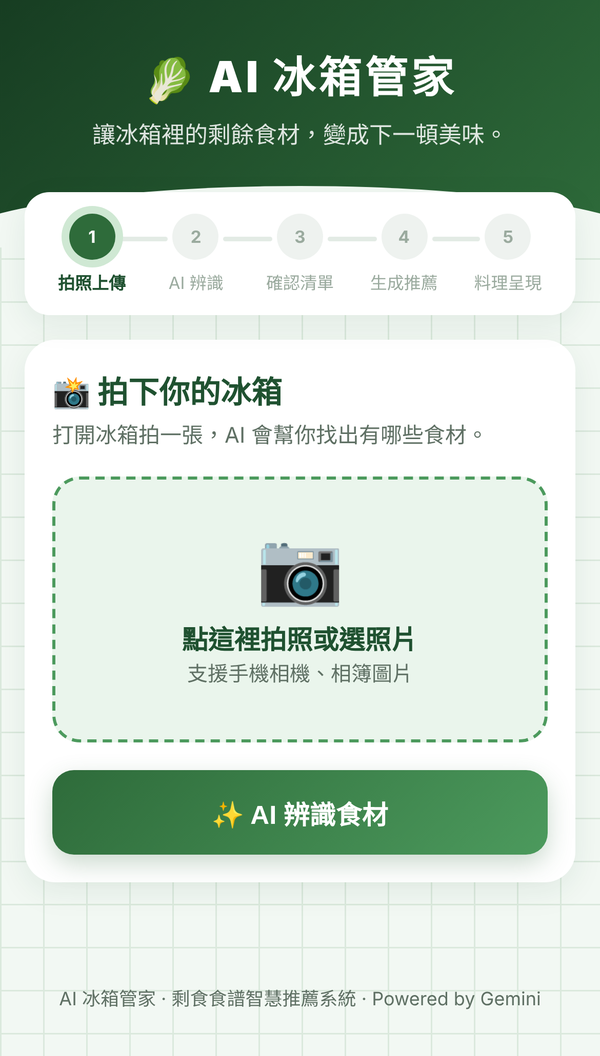
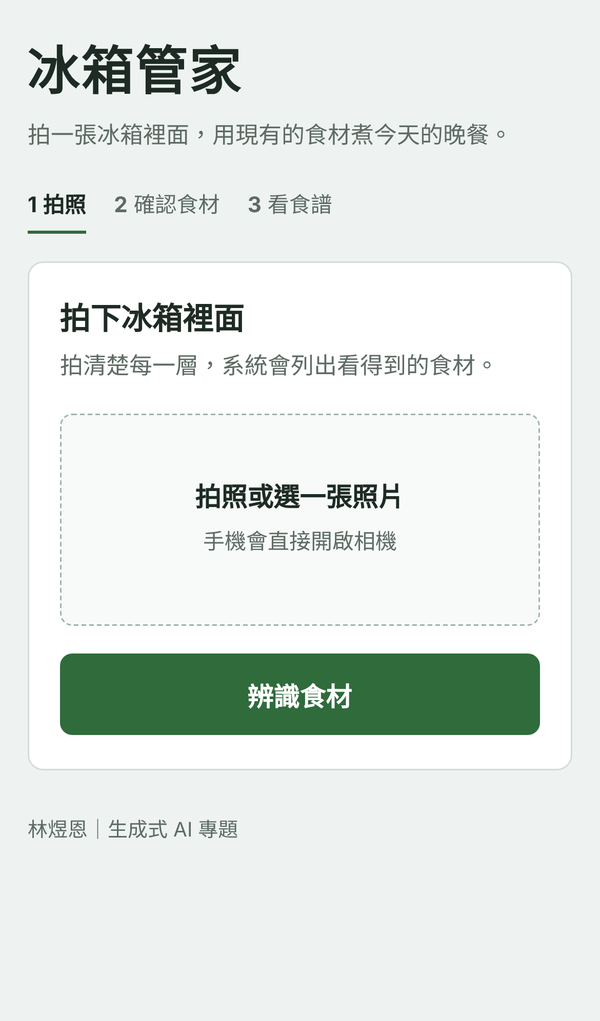
重新設計介面：冰箱白底、手寫字體便利貼食譜、簡化步驟與文案

diff --git a/app.py b/app.py
@@ -132,160 +132,182 @@ def too_large(e):
 PAGE = r"""
 <!doctype html><html lang="zh-Hant"><head><meta charset="utf-8">
 <meta name="viewport" content="width=device-width, initial-scale=1">
-<title>AI 冰箱管家</title>
+<title>冰箱管家</title>
 <link rel="preconnect" href="https://fonts.googleapis.com"><link rel="preconnect" href="https://fonts.gstatic.com" crossorigin>
-<link href="https://fonts.googleapis.com/css2?family=Noto+Sans+TC:wght@400;500;700;900&display=swap" rel="stylesheet">
+<link href="https://fonts.googleapis.com/css2?family=LXGW+WenKai+TC:wght@400;700&family=Noto+Sans+TC:wght@400;500;700&display=swap" rel="stylesheet">
 <style>
-:root{--g9:#173d22;--g8:#1f5130;--g7:#2e6b3a;--g5:#4c9a5d;--g2:#cfe8d3;--g1:#eaf5ec;--bg:#f2f8f3;--ink:#1d2a20;--mute:#5f7064;--warn:#e07a1f;--warnbg:#fff1e3;--line:#dbe9dd}
+:root{
+ --fridge:#EEF3F2;   /* 冰箱內壁的冷白 */
+ --panel:#FFFFFF;
+ --ink:#1E2B24;
+ --soft:#5E6B64;
+ --line:#D3DDD9;
+ --leaf:#2F6B3B;     /* 青江菜綠：主要按鈕 */
+ --leaf-d:#22512C;
+ --yolk:#F3C335;     /* 蛋黃：即期品標示 */
+ --note:#FFF3B8;     /* 便利貼 */
+ --tomato:#B8432B;   /* 只用在錯誤 */
+ --hand:"LXGW WenKai TC","Kaiti TC","STKaiti","DFKai-SB",serif;
+ --sans:"Noto Sans TC",system-ui,sans-serif;
+}
 *{box-sizing:border-box}
-body{margin:0;font-family:"Noto Sans TC",system-ui,sans-serif;color:var(--ink);background:var(--bg);
- background-image:linear-gradient(var(--line) 1px,transparent 1px),linear-gradient(90deg,var(--line) 1px,transparent 1px);background-size:28px 28px}
-.hero{background:linear-gradient(135deg,var(--g9),var(--g7));color:#fff;padding:28px 16px 64px;text-align:center;position:relative;overflow:hidden}
-.hero:after{content:"";position:absolute;inset:auto -10% -40px;height:80px;background:var(--bg);border-radius:50% 50% 0 0}
-.hero h1{margin:0;font-size:clamp(28px,6vw,40px);font-weight:900;letter-spacing:2px}
-.hero h1 span{display:inline-block;transform:translateY(2px);margin-right:6px}
-.hero p{margin:8px 0 0;opacity:.85;font-size:15px}
-.wrap{max-width:680px;margin:-36px auto 0;padding:0 16px 40px;position:relative;z-index:1}
-.steps{display:flex;justify-content:space-between;background:#fff;border-radius:16px;padding:14px 10px;box-shadow:0 6px 20px #1f513014;margin-bottom:16px;position:relative}
-.step{flex:1;text-align:center;font-size:12px;color:#9aaa9e;position:relative}
-.step i{display:flex;align-items:center;justify-content:center;width:30px;height:30px;margin:0 auto 6px;border-radius:50%;background:#eef2ef;font-style:normal;font-weight:700;position:relative;z-index:1}
-.step:not(:last-child):after{content:"";position:absolute;top:15px;left:calc(50% + 18px);right:calc(-50% + 18px);height:3px;border-radius:2px;background:#e3ebe5}
-.step.done{color:var(--g7)} .step.done i{background:var(--g2);color:var(--g8)} .step.done:after{background:var(--g5)}
-.step.now{color:var(--g8);font-weight:700} .step.now i{background:var(--g7);color:#fff;box-shadow:0 0 0 5px var(--g2)}
-.card{background:#fff;border-radius:20px;padding:22px;box-shadow:0 6px 20px #1f513014;margin-bottom:16px}
-.card h2{margin:0 0 4px;font-size:20px;color:var(--g8)} .sub{margin:0 0 18px;color:var(--mute);font-size:14px}
-.drop{display:block;border:2.5px dashed var(--g5);border-radius:18px;background:var(--g1);padding:34px 16px;text-align:center;cursor:pointer;transition:.2s}
-.drop:hover{background:#dff0e2}
-.drop .ico{font-size:46px;line-height:1}
-.drop b{display:block;margin-top:10px;font-size:17px;color:var(--g8)} .drop small{color:var(--mute)}
-.drop img{display:none;max-width:100%;max-height:320px;border-radius:12px}
-.drop.has img{margin:0 auto} .drop.has .ph{display:none} .drop.has{padding:12px;border-style:solid}
-.drop{position:relative} .drop input[type=file]{position:absolute;inset:0;width:100%;height:100%;opacity:0;cursor:pointer;font-size:0}
-.fname{display:none;margin-top:8px;font-size:14px;color:var(--g8);font-weight:700} .drop.has .fname{display:block}
-.btn{display:flex;align-items:center;justify-content:center;gap:8px;width:100%;margin-top:18px;padding:15px;border:0;border-radius:14px;
- background:linear-gradient(135deg,var(--g7),var(--g5));color:#fff;font:700 17px "Noto Sans TC",sans-serif;cursor:pointer;box-shadow:0 6px 16px #2e6b3a40;text-decoration:none}
-.btn:disabled{opacity:.5;box-shadow:none;cursor:not-allowed}
-.btn.ghost{background:#fff;color:var(--g7);border:2px solid var(--g5);box-shadow:none}
-.chips{display:flex;flex-wrap:wrap;gap:8px;min-height:44px}
-.chip{display:inline-flex;align-items:center;gap:6px;padding:8px 8px 8px 14px;border-radius:999px;background:var(--g1);border:1.5px solid var(--g2);font-size:15px;cursor:pointer;user-select:none;transition:.15s}
-.chip.exp{background:var(--warnbg);border-color:var(--warn);color:#9a4d0b}
-.chip.exp:before{content:"⏰"}
-.chip button{border:0;background:#0000000f;width:24px;height:24px;border-radius:50%;cursor:pointer;font-size:14px;color:inherit;line-height:1}
-.hint{font-size:13px;color:var(--mute);margin:10px 0 0}
-.hint em{font-style:normal;color:#9a4d0b;background:var(--warnbg);padding:1px 6px;border-radius:6px}
+body{margin:0;background:var(--fridge);color:var(--ink);font:16px/1.7 var(--sans)}
+.page{max-width:560px;margin:0 auto;padding:28px 18px 48px}
+header{margin-bottom:22px}
+header h1{margin:0;font:700 34px/1.2 var(--hand);letter-spacing:1px}
+header p{margin:6px 0 0;color:var(--soft);font-size:15px}
+.steps{display:flex;gap:18px;margin:0 0 18px;padding:0;list-style:none;font-size:14px;color:var(--soft)}
+.steps li{padding-bottom:4px;border-bottom:2px solid transparent}
+.steps li b{font-weight:700;margin-right:4px}
+.steps li.now{color:var(--ink);font-weight:700;border-color:var(--leaf)}
+.steps li.done{color:var(--leaf)}
+.panel{background:var(--panel);border:1px solid var(--line);border-radius:10px;padding:22px 20px}
+h2{margin:0 0 4px;font-size:20px;line-height:1.4}
+.sub{margin:0 0 18px;color:var(--soft);font-size:15px}
+.drop{position:relative;display:block;border:1.5px dashed #9FB3AA;border-radius:8px;padding:40px 16px;text-align:center;cursor:pointer;background:#F7FAF9}
+.drop:hover,.drop:focus-within{border-color:var(--leaf);background:#F1F7F3}
+.drop input[type=file]{position:absolute;inset:0;width:100%;height:100%;opacity:0;cursor:pointer;font-size:0}
+.drop .ph b{display:block;font-size:17px}
+.drop .ph small{color:var(--soft);font-size:14px}
+.drop img{display:none;max-width:100%;max-height:340px;border-radius:6px;margin:0 auto}
+.drop.has{padding:10px;border-style:solid;border-color:var(--line);background:#fff}
+.drop.has .ph{display:none}
+.fname{display:none;margin-top:8px;font-size:14px;color:var(--soft)} .drop.has .fname{display:block}
+.btn{display:block;width:100%;margin-top:18px;padding:14px;border:0;border-radius:8px;background:var(--leaf);color:#fff;font:700 17px var(--sans);text-align:center;text-decoration:none;cursor:pointer}
+.btn:hover{background:var(--leaf-d)}
+.btn:disabled{opacity:.5;cursor:wait}
+.btn.plain{background:transparent;color:var(--leaf);border:1.5px solid var(--leaf)}
+.btn.plain:hover{background:#E6F0E8}
+:focus-visible{outline:3px solid var(--yolk);outline-offset:2px}
+.chips{display:flex;flex-wrap:wrap;gap:8px;min-height:40px}
+.chip{display:inline-flex;align-items:center;gap:4px;padding:5px 6px 5px 12px;border:1px solid var(--line);border-radius:6px;background:#fff;font-size:16px;cursor:pointer;user-select:none}
+.chip.exp{background:linear-gradient(transparent 55%,var(--yolk) 55%);border-color:#E2B21F}
+.chip.exp:after{content:"快過期";font-size:12px;color:#7A5A00;margin-left:2px}
+.chip button{order:2;border:0;background:none;width:26px;height:26px;border-radius:4px;cursor:pointer;color:var(--soft);font-size:15px}
+.chip button:hover{background:#EEF2F0;color:var(--tomato)}
+.hint{font-size:14px;color:var(--soft);margin:10px 0 0}
 .add{display:flex;gap:8px;margin-top:14px}
-.add input,.field input{flex:1;width:100%;padding:12px 14px;border:1.5px solid var(--line);border-radius:12px;font:16px "Noto Sans TC",sans-serif;background:#fbfdfb}
-.add input:focus,.field input:focus{outline:none;border-color:var(--g5);background:#fff}
-.add button{padding:0 18px;border:0;border-radius:12px;background:var(--g2);color:var(--g8);font:700 15px "Noto Sans TC",sans-serif;cursor:pointer}
-.field{margin-top:18px} .field label{display:block;font-weight:700;font-size:15px;margin-bottom:8px}
+input[type=text],.add input{flex:1;width:100%;padding:11px 12px;border:1px solid var(--line);border-radius:8px;font:16px var(--sans);background:#fff;color:var(--ink)}
+input[type=text]:focus,.add input:focus{outline:none;border-color:var(--leaf)}
+.add button{padding:0 16px;border:1px solid var(--leaf);border-radius:8px;background:#fff;color:var(--leaf);font:700 15px var(--sans);cursor:pointer}
+.field{margin-top:22px;padding-top:18px;border-top:1px solid var(--line)}
+.field label{display:block;font-weight:700;margin-bottom:8px}
 .tags{display:flex;flex-wrap:wrap;gap:6px;margin-top:8px}
-.tags span{font-size:13px;padding:5px 10px;border-radius:999px;background:#f1f4f2;color:var(--mute);cursor:pointer}
-.tags span:hover{background:var(--g2);color:var(--g8)}
-.intro{background:var(--g1);border-left:5px solid var(--g5);border-radius:12px;padding:14px 16px;margin:0 0 16px;line-height:1.7}
-.dish{background:#fff;border-radius:20px;padding:20px 22px;box-shadow:0 6px 20px #1f513014;margin-bottom:16px;line-height:1.75}
-.dish h3{margin:0 0 10px;font-size:20px;color:var(--g8);display:flex;gap:10px;align-items:center}
-.dish h3:before{content:"🍳";font-size:22px}
-.dish ul,.dish ol{padding-left:22px;margin:6px 0} .dish li::marker{color:var(--g5);font-weight:700}
-.dish strong{color:var(--g7)}
-.dish hr,.recipe>hr{display:none}
-.err{background:#fff3f2;border:1.5px solid #f2b8b5;color:#a3261d;border-radius:14px;padding:14px 16px;margin-bottom:16px}
-.load{position:fixed;inset:0;background:#173d22e6;display:none;flex-direction:column;align-items:center;justify-content:center;color:#fff;z-index:9;text-align:center;padding:20px}
+.tags button{font:14px var(--sans);padding:4px 10px;border:1px solid var(--line);border-radius:20px;background:#fff;color:var(--soft);cursor:pointer}
+.tags button:hover{border-color:var(--leaf);color:var(--leaf)}
+/* 食譜：貼在冰箱門上的便利貼 */
+.recipe .intro{margin:0 0 18px;font-size:16px;color:var(--soft)}
+.recipe .intro p{margin:0}
+.dish{position:relative;background:var(--note);padding:26px 22px 20px;margin:0 4px 26px;font:18px/1.8 var(--hand);color:#2B2615;box-shadow:0 1px 0 #E6D88F,0 8px 14px -10px #6B5E2266;transform:rotate(-.6deg)}
+.dish:nth-of-type(even){transform:rotate(.5deg);background:#FFE9C2}
+.dish:before{content:"";position:absolute;top:-10px;left:50%;width:84px;height:22px;margin-left:-42px;background:#FFFFFFAA;border:1px solid #0000000d;transform:rotate(-2deg)}
+.dish h3{margin:0 0 8px;font:700 24px/1.4 var(--hand)}
+.dish ul,.dish ol{margin:4px 0 8px;padding-left:24px}
+.dish strong{font-weight:700}
+.dish p{margin:6px 0}
+.recipe>p{font:17px/1.8 var(--hand);color:var(--soft)}
+.recipe hr{display:none}
+.err{border:1px solid #E7B4A8;background:#FBEDEA;color:var(--tomato);border-radius:8px;padding:12px 14px;margin-bottom:16px;font-size:15px}
+.load{position:fixed;inset:0;background:#EEF3F2F2;display:none;flex-direction:column;align-items:center;justify-content:center;text-align:center;padding:20px;z-index:9}
 .load.on{display:flex}
-.load .pot{font-size:64px;animation:b 1s ease-in-out infinite}
-@keyframes b{50%{transform:translateY(-12px) rotate(-6deg)}}
-.load b{font-size:20px;margin-top:14px} .load small{opacity:.75;margin-top:6px}
-footer{text-align:center;color:var(--mute);font-size:12px;padding:10px 0 30px}
-@media(max-width:480px){.step{font-size:11px}.card,.dish{padding:18px}}
+.load b{font:700 22px var(--hand)} .load small{color:var(--soft);margin-top:4px}
+.bar{width:180px;height:4px;background:var(--line);border-radius:2px;margin-top:16px;overflow:hidden}
+.bar:after{content:"";display:block;width:40%;height:100%;background:var(--leaf);animation:slide 1.2s ease-in-out infinite}
+@keyframes slide{from{transform:translateX(-100%)}to{transform:translateX(250%)}}
+@media (prefers-reduced-motion:reduce){.bar:after{animation:none;width:100%}.dish,.dish:nth-of-type(even){transform:none}}
+footer{margin-top:28px;font-size:13px;color:var(--soft)}
 </style></head><body>
-<header class="hero">
- <h1><span>🥬</span>AI 冰箱管家</h1>
- <p>讓冰箱裡的剩餘食材，變成下一頓美味。</p>
+<div class="page">
+<header>
+ <h1>冰箱管家</h1>
+ <p>拍一張冰箱裡面，用現有的食材煮今天的晚餐。</p>
 </header>
-<main class="wrap">
-{% set n = {'upload':1,'confirm':3,'recipe':5}[step] %}
-<nav class="steps">
- {% for s in ['拍照上傳','AI 辨識','確認清單','生成推薦','料理呈現'] %}
- <div class="step {{ 'now' if loop.index==n else ('done' if loop.index<n else '') }}"><i>{{ '✓' if loop.index<n else loop.index }}</i>{{ s }}</div>
+{% set n = {'upload':1,'confirm':2,'recipe':3}[step] %}
+<ol class="steps">
+ {% for s in ['拍照','確認食材','看食譜'] %}
+ <li class="{{ 'now' if loop.index==n else ('done' if loop.index<n else '') }}"><b>{{ loop.index }}</b>{{ s }}</li>
  {% endfor %}
-</nav>
+</ol>
 
-{% if error %}<div class="err">⚠ {{ error }}</div>{% endif %}
+{% if error %}<div class="err" role="alert">{{ error }}</div>{% endif %}
 
 {% if step == 'upload' %}
-<section class="card">
- <h2>📸 拍下你的冰箱</h2>
- <p class="sub">打開冰箱拍一張，AI 會幫你找出有哪些食材。</p>
+<section class="panel">
+ <h2>拍下冰箱裡面</h2>
+ <p class="sub">拍清楚每一層，系統會列出看得到的食材。</p>
  <form method="post" action="/recognize" enctype="multipart/form-data" onsubmit="return checkPhoto(this)">
   <label class="drop" id="drop">
-   <div class="ph"><div class="ico">📷</div><b>點這裡拍照或選照片</b><small>支援手機相機、相簿圖片</small></div>
-   <img id="pv" alt="預覽">
+   <div class="ph"><b>拍照或選一張照片</b><small>手機會直接開啟相機</small></div>
+   <img id="pv" alt="照片預覽">
    <div class="fname" id="fname"></div>
    <input type="file" name="photo" id="photo" accept="image/*" onchange="pick(this)" oninput="pick(this)">
   </label>
-  <button class="btn" id="go1">✨ AI 辨識食材</button>
+  <button class="btn" id="go1">辨識食材</button>
  </form>
 </section>
 {% endif %}
 
 {% if step == 'confirm' %}
-<section class="card">
- <h2>🧺 確認食材清單</h2>
- <p class="sub">AI 找到這些食材，認錯的按 ✕ 刪掉，漏掉的自己加。</p>
+<section class="panel">
+ <h2>冰箱裡有這些</h2>
+ <p class="sub">刪掉認錯的，補上漏掉的。點一下食材可以標成快過期，會優先用掉。</p>
  <div class="chips" id="chips"></div>
- <p class="hint">💡 點一下食材可標記為 <em>⏰ 即期品</em>，AI 會優先用掉它。</p>
- <div class="add"><input id="newItem" placeholder="新增食材，例如：豆腐" onkeydown="if(event.key==='Enter'){event.preventDefault();addItem()}"><button type="button" onclick="addItem()">＋ 加入</button></div>
+ <div class="add"><input id="newItem" aria-label="新增食材" placeholder="補上食材，例如：豆腐" onkeydown="if(event.key==='Enter'){event.preventDefault();addItem()}"><button type="button" onclick="addItem()">加入</button></div>
  <form method="post" action="/recipe" onsubmit="return submitRecipe(this)">
   <textarea name="items" id="items" hidden>{{ items }}</textarea>
   <input type="hidden" name="expiring" id="expiring">
   <div class="field">
-   <label for="pref">🍽 口味或需求（可不填）</label>
-   <input type="text" name="pref" id="pref" placeholder="例如：不吃辣、15 分鐘內完成">
-   <div class="tags">{% for t in ['15 分鐘內','不吃辣','清淡','下飯','一人份','素食'] %}<span onclick="tag('{{t}}')">{{t}}</span>{% endfor %}</div>
+   <label for="pref">有什麼要求嗎？（可以不填）</label>
+   <input type="text" name="pref" id="pref" maxlength="50" placeholder="例如：不吃辣、15 分鐘內">
+   <div class="tags">{% for t in ['15 分鐘內','不吃辣','清淡','下飯','一人份','素食'] %}<button type="button" onclick="tag('{{t}}')">{{t}}</button>{% endfor %}</div>
   </div>
-  <button class="btn">🍳 生成專屬食譜</button>
+  <button class="btn">產生食譜</button>
  </form>
 </section>
 {% endif %}
 
 {% if step == 'recipe' %}
 <div class="recipe" id="recipe">{{ recipe|safe }}</div>
-<a href="/" class="btn ghost">📷 再拍一次</a>
+<a href="/" class="btn plain">重新拍一張</a>
 {% endif %}
-</main>
-<footer>AI 冰箱管家 · 剩食食譜智慧推薦系統 · Powered by Gemini</footer>
 
-<div class="load" id="load"><div class="pot">🍲</div><b id="lt">處理中…</b><small id="ls"></small></div>
+<footer>林煜恩｜生成式 AI 專題</footer>
+</div>
+
+<div class="load" id="load" aria-live="polite"><b id="lt">處理中</b><small id="ls"></small><div class="bar"></div></div>
 <script>
 function go(f,t,s){document.getElementById('lt').textContent=t;document.getElementById('ls').textContent=s;document.getElementById('load').classList.add('on');var b=f.querySelector('.btn');if(b)b.disabled=true;return true}
-window.addEventListener('pageshow',function(){document.getElementById('load').classList.remove('on')});
+window.addEventListener('pageshow',function(){document.getElementById('load').classList.remove('on');document.querySelectorAll('.btn').forEach(function(b){b.disabled=false})});
 function pick(i){var f=i.files&&i.files[0];if(!f)return;
  var d=document.getElementById('drop'),p=document.getElementById('pv');
- d.classList.add('has');document.getElementById('fname').textContent='✅ 已選擇：'+f.name;
+ d.classList.add('has');document.getElementById('fname').textContent=f.name+'（點照片可以換一張）';
  p.style.display='block';p.onerror=function(){p.style.display='none'};
  try{p.src=URL.createObjectURL(f)}catch(e){p.style.display='none'}}
 function checkPhoto(f){var i=document.getElementById('photo');
  if(!i.files||!i.files[0]){alert('請先拍照或選一張照片');return false}
- return go(f,'AI 正在辨識食材…','大約 10～30 秒')}
+ return go(f,'正在看你的冰箱','大約 10～30 秒')}
 var list=[],exp={};
 function draw(){var c=document.getElementById('chips');if(!c)return;c.innerHTML='';
- if(!list.length){c.innerHTML='<span class="hint">目前沒有食材，請在下方新增。</span>'}
- list.forEach(function(n,i){var d=document.createElement('span');d.className='chip'+(exp[n]?' exp':'');d.textContent=n;d.title='點一下標記為即期品';
-  d.onclick=function(){exp[n]=!exp[n];draw()};
-  var x=document.createElement('button');x.type='button';x.textContent='✕';x.title='刪除';x.onclick=function(e){e.stopPropagation();list.splice(i,1);delete exp[n];draw()};
+ if(!list.length){c.innerHTML='<span class="hint">還沒有食材，從下面補上。</span>'}
+ list.forEach(function(n,i){var d=document.createElement('span');d.className='chip'+(exp[n]?' exp':'');d.textContent=n;d.tabIndex=0;d.setAttribute('role','button');d.title='點一下標成快過期';
+  d.onclick=function(){exp[n]=!exp[n];draw()};d.onkeydown=function(e){if(e.key==='Enter'||e.key===' '){e.preventDefault();d.onclick()}};
+  var x=document.createElement('button');x.type='button';x.textContent='✕';x.setAttribute('aria-label','刪除'+n);x.onclick=function(e){e.stopPropagation();list.splice(i,1);delete exp[n];draw()};
   d.appendChild(x);c.appendChild(d)})}
-function addItem(){var i=document.getElementById('newItem');var v=i.value.trim();if(v&&list.indexOf(v)<0){list.push(v);draw()}i.value='';i.focus()}
-function tag(t){var p=document.getElementById('pref');p.value=p.value?p.value+'、'+t:t}
+function addItem(){var i=document.getElementById('newItem');var v=i.value.trim().slice(0,20);if(v&&list.indexOf(v)<0&&list.length<30){list.push(v);draw()}i.value='';i.focus()}
+function tag(t){var p=document.getElementById('pref');if(p.value.indexOf(t)<0)p.value=p.value?p.value+'、'+t:t}
 function submitRecipe(f){if(!list.length){alert('請至少保留一樣食材');return false}
  document.getElementById('items').value=list.join('\n');
  document.getElementById('expiring').value=list.filter(function(n){return exp[n]}).join(', ');
- return go(f,'AI 正在設計你的食譜…','大約 10～40 秒')}
+ return go(f,'正在想今天煮什麼','大約 10～40 秒')}
 (function(){var t=document.getElementById('items');if(t){list=t.value.split('\n').map(function(s){return s.trim()}).filter(Boolean);draw()}
  var r=document.getElementById('recipe');if(!r)return;
- var kids=Array.prototype.slice.call(r.childNodes),cur=null,intro=document.createElement('div');intro.className='intro';
+ var kids=Array.prototype.slice.call(r.childNodes),cur=null,intro=document.createElement('div'),tail=[];intro.className='intro';
  kids.forEach(function(k){if(k.nodeType===1&&/^H[1-3]$/.test(k.tagName)){cur=document.createElement('section');cur.className='dish';r.appendChild(cur);cur.appendChild(k)}
   else if(cur){cur.appendChild(k)}else if(k.nodeType===1||k.textContent.trim()){intro.appendChild(k)}});
  if(intro.textContent.trim())r.insertBefore(intro,r.firstChild);
- r.querySelectorAll('h1,h2').forEach(function(h){var n=document.createElement('h3');n.innerHTML=h.innerHTML;h.replaceWith(n)})})();
+ r.querySelectorAll('h1,h2').forEach(function(h){var n=document.createElement('h3');n.innerHTML=h.innerHTML;h.replaceWith(n)});
+ var dishes=r.querySelectorAll('.dish');if(dishes.length){var last=dishes[dishes.length-1];var ps=last.querySelectorAll(':scope > p');
+  if(ps.length){var p=ps[ps.length-1];if(/沒用到|下次|保存/.test(p.textContent)){r.appendChild(p)}}}})();
 </script>
 </body></html>
 """
